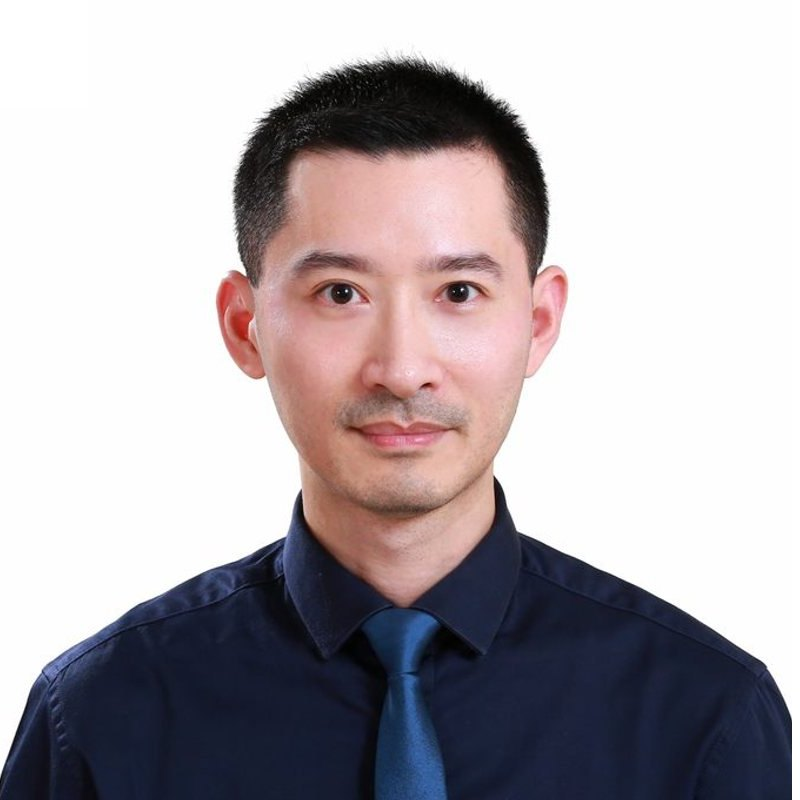
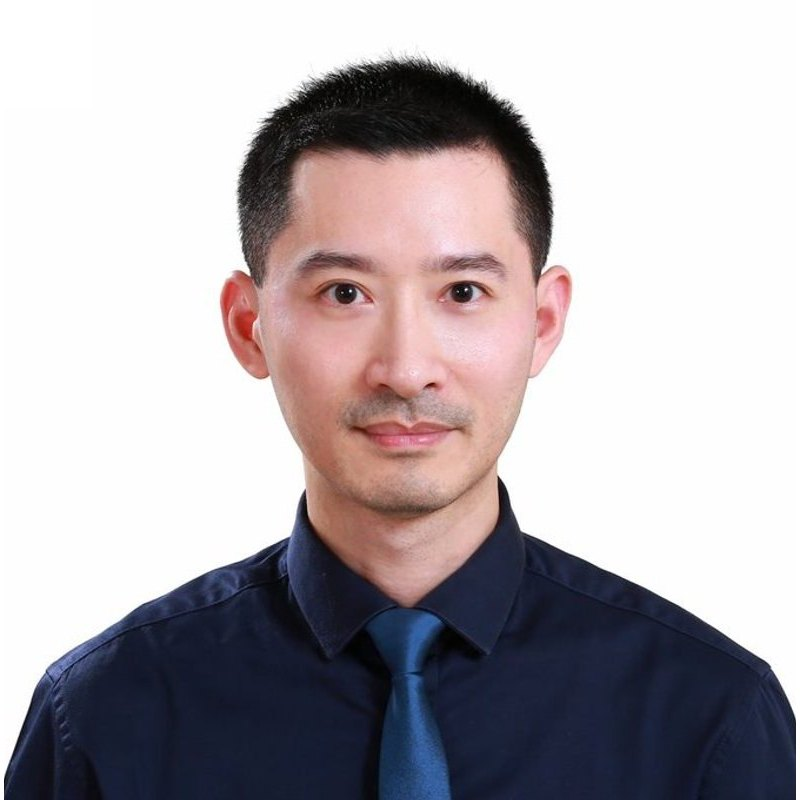
fix: nudge Frank Chuang portrait right

diff --git a/content.js b/content.js
@@ -639,8 +639,8 @@ window.JUDGES = [
     nameEn: "Frank Chuang",
     affiliationZh: "國立政治大學資訊管理學系｜助理教授",
     affiliationEn: "Assistant Professor, Department of Management Information Systems, National Chengchi University",
-    imageJpg: "assets/judges/frank-chuang.jpg?v=3",
-    imageWebp: "assets/judges/frank-chuang.webp?v=3",
+    imageJpg: "assets/judges/frank-chuang.jpg?v=4",
+    imageWebp: "assets/judges/frank-chuang.webp?v=4",
     alt: { "zh-Hant": "莊豐源 照片", en: "Portrait of Frank Chuang" }
   },
   {
